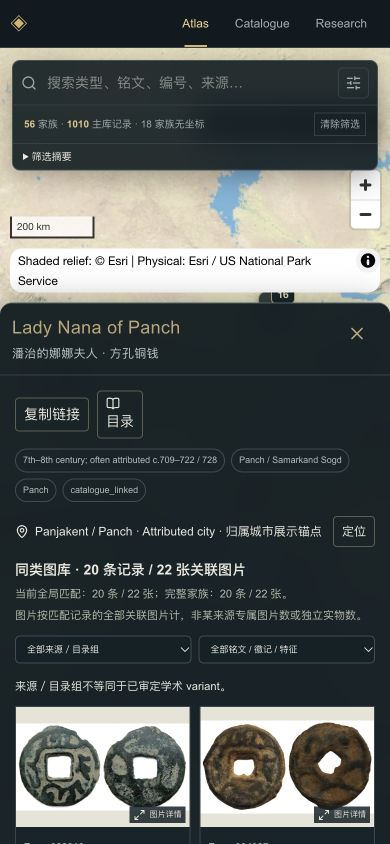
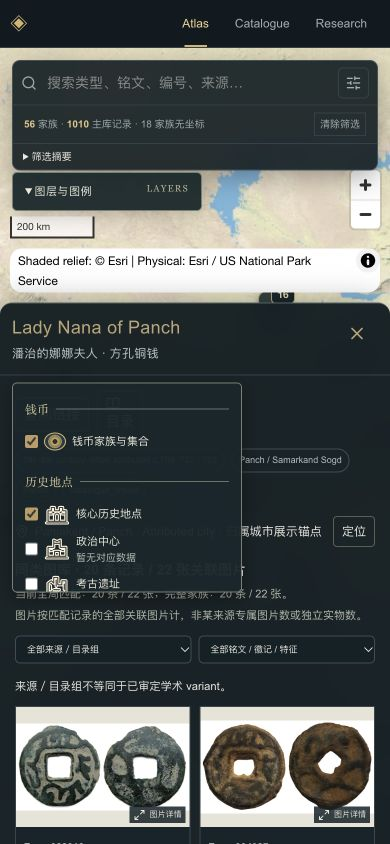
T21: finalize responsive layer review and acceptance record

diff --git a/app/globals.css b/app/globals.css
@@ -197,3 +197,7 @@
 @media(prefers-reduced-motion:reduce){.history-place,.history-range-label,.history-controls{transition:none!important}}
 .preview-map .terrain-map{position:absolute;inset:0;width:100%;height:100%}
 @media(max-width:760px){.atlas-screen.has-family .history-controls{top:124px;left:12px;right:auto;width:190px}.atlas-screen.has-family .history-controls-scroll{max-height:72px}}
+@media(max-width:760px){
+ .atlas-screen.has-family .history-controls[open]{z-index:35}
+ .atlas-screen.has-family .history-controls[open] .history-controls-scroll{position:fixed;top:calc((100dvh - 48px) * .32 + 128px);left:12px;width:230px;max-width:calc(100vw - 24px);max-height:210px;padding:10px 12px;background:#17272bf5;border:1px solid #758176;border-radius:5px;box-shadow:0 6px 18px #0005}
+}
